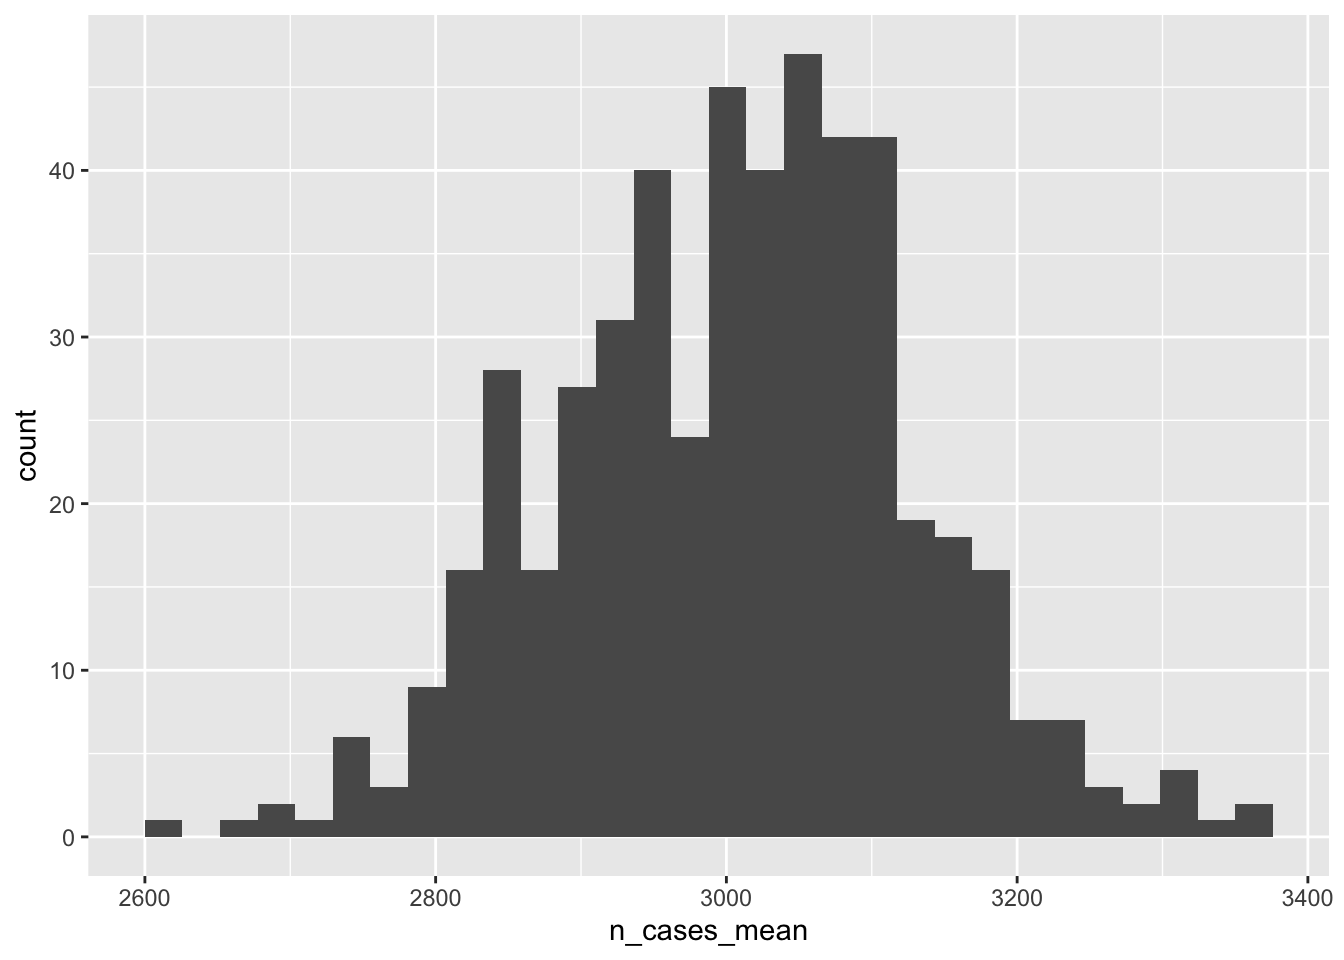
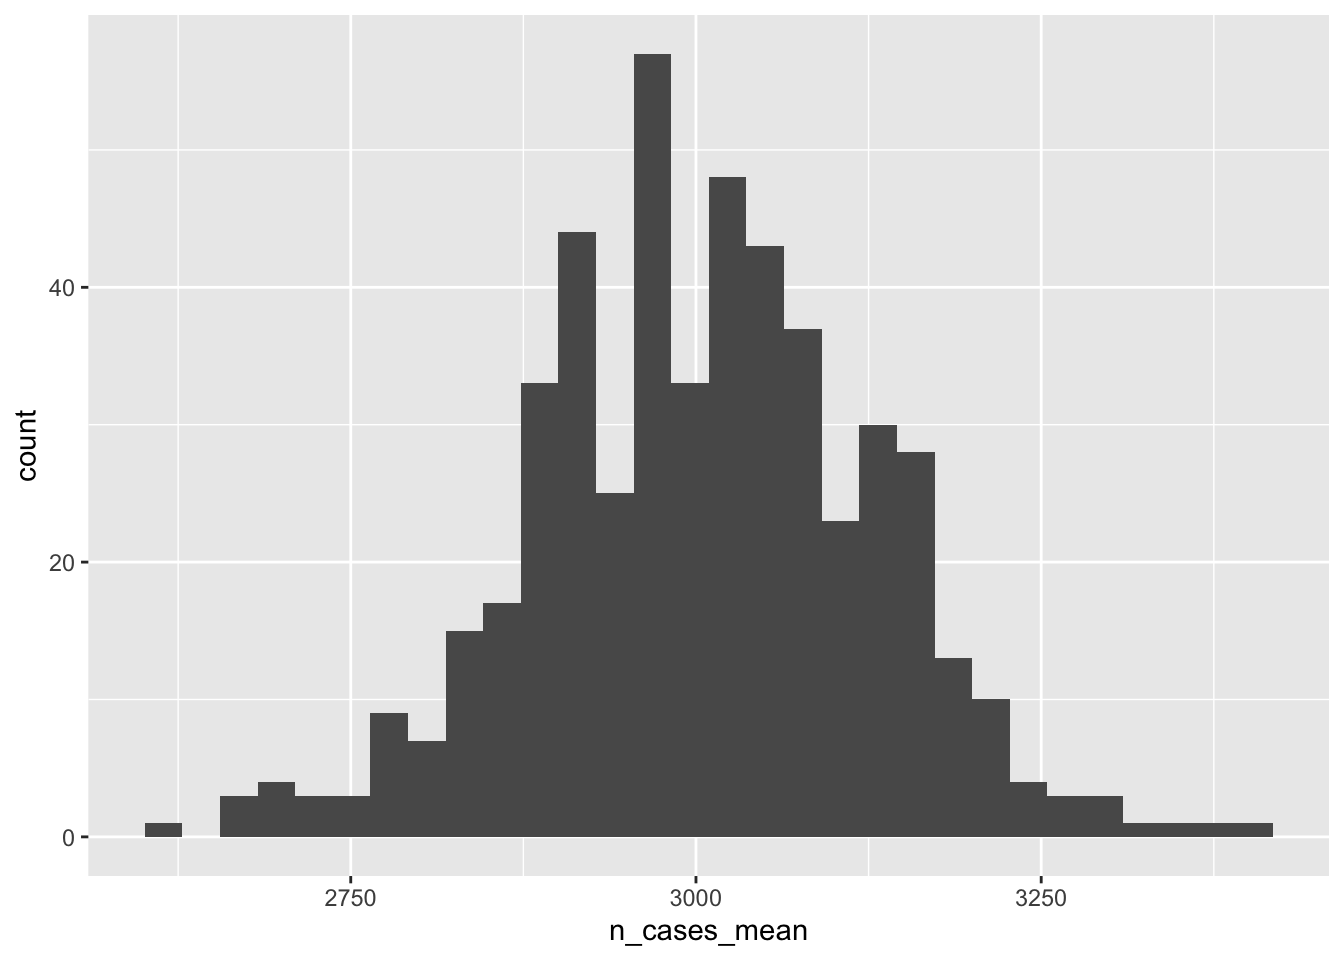
update boot module

diff --git a/docs/5-monte-carlo-boot-purrr.html b/docs/5-monte-carlo-boot-purrr.html
@@ -11,7 +11,7 @@
 
 <meta name="author" content="Michael D Garber" />
 
-<meta name="date" content="2022-08-11" />
+<meta name="date" content="2022-08-12" />
 
 <title>Monte Carlo simulations and boots with the purrr::map_dfr()</title>
 
@@ -370,7 +370,7 @@ div.tocify {
 
 <h1 class="title toc-ignore">Monte Carlo simulations and boots with the purrr::map_dfr()</h1>
 <h4 class="author">Michael D Garber</h4>
-<h4 class="date">2022-08-11</h4>
+<h4 class="date">2022-08-12</h4>
 
 </div>
 
@@ -481,8 +481,8 @@ monte_carlo_sim_frozen</code></pre>
 <p><img src="5-monte-carlo-boot-purrr_files/figure-html/unnamed-chunk-4-1.png" width="672" /></p>
 <div id="define-a-function-for-replications" class="section level3" number="4.1.1">
 <h3><span class="header-section-number">4.1.1</span> Define a function for replications</h3>
-<p>Now let’s randomly vary values of the variables over several replications. In this code, we will create a function that will create new variables that will change. Functions are described in the <a href="https://r4ds.had.co.nz/functions.html#functions">functions chapter</a> of R 4 Data Science. At the end of this module, I have another example of how to use a function in a dplyr pipe.</p>
-<p>Create a function for the creation of this dataset, run it 500 times, and find the mean of the means over those 500 iterations. The argument our function takes is <code>rep_id_val</code>. Its value is in the <code>mutate()</code> step to create a variable called <code>rep_id</code>.</p>
+<p>Now let’s randomly vary values of the variables over several replications. In this code, we will create a function that will create new variables whose values will randomly change. Functions are described in the <a href="https://r4ds.had.co.nz/functions.html#functions">functions chapter</a> of R 4 Data Science. At the end of this module, I have another example of how to use a function in a dplyr pipe.</p>
+<p>Create a function for the creation of this dataset, run it 500 times, and find the mean of the means over those 500 iterations. Our function’s one argument is <code>rep_id_val</code>. Its value is used in the <code>mutate()</code> step to create a variable called <code>rep_id</code>.</p>
 <pre class="r"><code>monte_carlo_sim_fun = function(rep_id_val){
   monte_carlo_sim_df = 1:100 %&gt;% 
     as_tibble() %&gt;% 
@@ -526,27 +526,27 @@ class(rep_id_val_list)</code></pre>
 </div>
 <div id="run-the-replications" class="section level3" number="4.1.2">
 <h3><span class="header-section-number">4.1.2</span> Run the replications</h3>
-<p>Simulate 500 versions of this state. In each replication, the values for the variables <code>pop</code>, <code>dem</code>, <code>prev</code>, and <code>n_cases</code> randomly vary according to their specified distribution. We use <a href="https://purrr.tidyverse.org/reference/map.html"><code>map_dfr()</code></a> from the <a href="https://purrr.tidyverse.org/">purrr</a> package to run the simulation and then stack the results on top of one another, akin to <code>dplyr::bind_rows()</code>.</p>
-<p>Take note the unusual structure of this code. The function we created above, <code>monte_carlo_sim_fun</code> is inside <code>map_dfr()</code>, and the list of replication ids, <code>rep_id_val_list,</code> is the object that begins the pipe sequence.</p>
+<p>Simulate 500 versions of this state. In each replication, the values for the variables <code>pop</code>, <code>dem</code>, <code>prev</code>, and <code>n_cases</code> randomly vary according to their specified distribution. We use <a href="https://purrr.tidyverse.org/reference/map.html"><code>map_dfr()</code></a> from the <a href="https://purrr.tidyverse.org/">purrr</a> package to run the simulation and then stack the results from each iteration on top of one another, akin to <code>dplyr::bind_rows()</code>.</p>
+<p>Take note of the unusual structure of this code. The function we created above, <code>monte_carlo_sim_fun</code> is inside of <code>map_dfr()</code>, and the list of replication ids, <code>rep_id_val_list,</code> is the object that begins the pipe sequence.</p>
 <pre class="r"><code>library(purrr) #make sure it&#39;s attached
 set.seed(NULL) #allow it to vary differently each time.
 monte_carlo_sim_lots  = rep_id_val_list %&gt;% 
   map_dfr(monte_carlo_sim_fun) </code></pre>
-<p>Take a look at output.</p>
+<p>Take a look at the output.</p>
 <pre class="r"><code>monte_carlo_sim_lots</code></pre>
 <pre><code>## # A tibble: 50,000 × 7
-##    county_id state   pop   dem   prev n_cases rep_id
-##        &lt;int&gt; &lt;dbl&gt; &lt;int&gt; &lt;int&gt;  &lt;dbl&gt;   &lt;int&gt;  &lt;int&gt;
-##  1         1     1 10006     0 0.178     1779      1
-##  2         2     1 10011     1 0.129     1291      1
-##  3         3     1  9923     1 0.460     4565      1
-##  4         4     1 10068     0 0.226     2271      1
-##  5         5     1  9827     0 0.0526     516      1
-##  6         6     1  9833     1 0.209     2051      1
-##  7         7     1  9927     0 0.171     1701      1
-##  8         8     1 10028     0 0.180     1801      1
-##  9         9     1 10139     1 0.292     2963      1
-## 10        10     1  9961     1 0.341     3398      1
+##    county_id state   pop   dem  prev n_cases rep_id
+##        &lt;int&gt; &lt;dbl&gt; &lt;int&gt; &lt;int&gt; &lt;dbl&gt;   &lt;int&gt;  &lt;int&gt;
+##  1         1     1  9885     0 0.142    1403      1
+##  2         2     1  9907     0 0.312    3093      1
+##  3         3     1  9995     1 0.325    3250      1
+##  4         4     1  9939     1 0.250    2486      1
+##  5         5     1 10051     1 0.476    4781      1
+##  6         6     1  9943     0 0.145    1445      1
+##  7         7     1 10062     1 0.264    2655      1
+##  8         8     1 10024     0 0.165    1650      1
+##  9         9     1 10195     1 0.110    1119      1
+## 10        10     1  9974     0 0.369    3682      1
 ## # … with 49,990 more rows
 ## # ℹ Use `print(n = ...)` to see more rows</code></pre>
 <p>How many rows?</p>
@@ -558,7 +558,7 @@ monte_carlo_sim_lots  = rep_id_val_list %&gt;%
 </div>
 <div id="summarize-results" class="section level3" number="4.1.3">
 <h3><span class="header-section-number">4.1.3</span> Summarize results</h3>
-<p>What’s the distribution of <code>n_cases_mean</code> over Monte Carlo replications? This is not the variability of the number of cases within the state between counties but rather the variability of the mean number of cases over counties between replications.</p>
+<p>What’s the distribution of <code>n_cases_mean</code> over Monte Carlo replications? This is not the variability of the number of cases within the state between counties but rather the variability of the mean number of county-level cases between replications.</p>
 <pre class="r"><code>monte_carlo_sim_lots %&gt;% 
   group_by(rep_id,state) %&gt;% 
   summarise(
@@ -590,37 +590,37 @@ monte_carlo_sim_lots  = rep_id_val_list %&gt;%
 <pre><code>## # A tibble: 1 × 5
 ##   state n_cases_mean_ll n_cases_mean_med n_cases_mean_ul simulation_type
 ##   &lt;dbl&gt;           &lt;dbl&gt;            &lt;dbl&gt;           &lt;dbl&gt; &lt;chr&gt;          
-## 1     1           2777.            3013.           3245. monte-carlo</code></pre>
+## 1     1           2762.            3005.           3238. monte-carlo</code></pre>
 </div>
 </div>
 <div id="bootstrap" class="section level2" number="4.2">
 <h2><span class="header-section-number">4.2</span> Bootstrap</h2>
-<p>Now let’s bootstrap <code>monte_carlo_sim_frozen</code>, again supposing that even though it was generated randomly, it is now viewed as a single frozen sample - the one we drew and have access to. We can estimate the sampling distribution by re-sampling it <strong>with replacement</strong> with sampling probability of 1, meaning all rows will be re-sampled. This means that, in a given sample, some counties will repeat, and some will not appear at all.</p>
+<p>Now let’s bootstrap <code>monte_carlo_sim_frozen</code>, again supposing that even though it was generated randomly, it is now viewed as a single frozen sample - the one we drew and have access to. We can estimate the sampling distribution by re-sampling it <strong>with replacement</strong> with sampling probability of 1, meaning all rows will be re-sampled. Because we are sampling <em>with replacement</em>, in a given sample, some counties will repeat, and some will not appear at all.</p>
 <p>Here’s one sample:</p>
 <pre class="r"><code>monte_carlo_sim_one_boot = monte_carlo_sim_frozen %&gt;% 
   slice_sample(prop=1,replace=TRUE)</code></pre>
 <p>Take a look:</p>
 <pre class="r"><code>monte_carlo_sim_one_boot</code></pre>
 <pre><code>## # A tibble: 100 × 6
-##    county_id state   pop   dem   prev n_cases
-##        &lt;int&gt; &lt;dbl&gt; &lt;int&gt; &lt;int&gt;  &lt;dbl&gt;   &lt;int&gt;
-##  1        30     1  9922     1 0.303     3010
-##  2        61     1  9910     1 0.520     5148
-##  3        85     1 10002     0 0.0276     276
-##  4        66     1  9870     1 0.570     5628
-##  5        86     1 10100     1 0.338     3408
-##  6        77     1 10070     0 0.395     3975
-##  7         2     1  9780     1 0.455     4448
-##  8        49     1 10033     1 0.347     3486
-##  9        69     1  9963     0 0.119     1184
-## 10        60     1 10036     0 0.237     2382
+##    county_id state   pop   dem  prev n_cases
+##        &lt;int&gt; &lt;dbl&gt; &lt;int&gt; &lt;int&gt; &lt;dbl&gt;   &lt;int&gt;
+##  1         6     1 10062     1 0.435    4378
+##  2        34     1  9924     1 0.440    4363
+##  3        95     1  9891     0 0.215    2130
+##  4        11     1  9885     1 0.329    3251
+##  5        89     1 10073     1 0.431    4337
+##  6        18     1  9779     0 0.287    2802
+##  7       100     1 10128     1 0.222    2252
+##  8       100     1 10128     1 0.222    2252
+##  9        19     1 10000     0 0.527    5271
+## 10        59     1  9931     1 0.330    3275
 ## # … with 90 more rows
 ## # ℹ Use `print(n = ...)` to see more rows</code></pre>
 <p>As expected, we have the same number of rows, but fewer unique values for <code>county_id.</code> Some are repeating.</p>
 <pre class="r"><code>nrow(monte_carlo_sim_one_boot)</code></pre>
 <pre><code>## [1] 100</code></pre>
 <pre class="r"><code>n_distinct(monte_carlo_sim_one_boot$county_id)</code></pre>
-<pre><code>## [1] 69</code></pre>
+<pre><code>## [1] 63</code></pre>
 <p>Repeat this bootstrap procedure 500 times by first writing a function and then iterating replications through that function using <code>purrr::map_dfr()</code></p>
 <div id="define-a-function-for-replications-1" class="section level3" number="4.2.1">
 <h3><span class="header-section-number">4.2.1</span> Define a function for replications</h3>
@@ -632,7 +632,7 @@ monte_carlo_sim_lots  = rep_id_val_list %&gt;%
 </div>
 <div id="run-the-replications-1" class="section level3" number="4.2.2">
 <h3><span class="header-section-number">4.2.2</span> Run the replications</h3>
-<p>Simulate 500 versions of this re-sampling. We again use <code>map_dfr()</code> from the purrr package to run the function and then stack the results on top of one another. Note the unusual structure of this code. The function we created above, <code>monte_carlo_sim_fun(),</code> is inside <code>map_dfr()</code>, and the list of replication ids, <code>rep_id_val_list,</code> begins the pipe sequence.</p>
+<p>Simulate 500 versions of this re-sampling. We again use <code>map_dfr()</code> from the purrr package to run the function and then stack the results on top of one another. Again take note of the unusual structure of this code. The function, <code>boot_fun</code>, is inside of <code>map_dfr()</code>, and the vector of replication ids, <code>rep_id_val_list,</code> begins the pipe sequence.</p>
 <pre class="r"><code>boot_lots  = rep_id_val_list %&gt;% 
   map_dfr(boot_fun) </code></pre>
 </div>
@@ -640,18 +640,18 @@ monte_carlo_sim_lots  = rep_id_val_list %&gt;%
 <h3><span class="header-section-number">4.2.3</span> Summarize results</h3>
 <pre class="r"><code>boot_lots</code></pre>
 <pre><code>## # A tibble: 50,000 × 7
-##    county_id state   pop   dem   prev n_cases rep_id
-##        &lt;int&gt; &lt;dbl&gt; &lt;int&gt; &lt;int&gt;  &lt;dbl&gt;   &lt;int&gt;  &lt;int&gt;
-##  1        19     1 10000     0 0.527     5271      1
-##  2        97     1 10028     1 0.456     4568      1
-##  3        48     1  9804     0 0.157     1539      1
-##  4        40     1  9936     0 0.172     1707      1
-##  5        58     1 10015     0 0.0619     619      1
-##  6        45     1 10006     1 0.396     3961      1
-##  7        66     1  9870     1 0.570     5628      1
-##  8        50     1 10047     1 0.354     3557      1
-##  9        40     1  9936     0 0.172     1707      1
-## 10        63     1  9934     0 0.329     3271      1
+##    county_id state   pop   dem  prev n_cases rep_id
+##        &lt;int&gt; &lt;dbl&gt; &lt;int&gt; &lt;int&gt; &lt;dbl&gt;   &lt;int&gt;  &lt;int&gt;
+##  1        18     1  9779     0 0.287    2802      1
+##  2        96     1  9936     0 0.513    5096      1
+##  3        16     1  9998     0 0.337    3370      1
+##  4        19     1 10000     0 0.527    5271      1
+##  5        23     1 10068     0 0.350    3523      1
+##  6        65     1  9910     0 0.312    3089      1
+##  7        61     1  9910     1 0.520    5148      1
+##  8        81     1 10048     0 0.206    2072      1
+##  9         6     1 10062     1 0.435    4378      1
+## 10        42     1 10054     1 0.224    2251      1
 ## # … with 49,990 more rows
 ## # ℹ Use `print(n = ...)` to see more rows</code></pre>
 <p>What’s the distribution of <code>n_cases_mean</code> over bootstrap replications?</p>
@@ -666,7 +666,7 @@ monte_carlo_sim_lots  = rep_id_val_list %&gt;%
 ## `.groups` argument.
 ## `stat_bin()` using `bins = 30`. Pick better value with `binwidth`.</code></pre>
 <p><img src="5-monte-carlo-boot-purrr_files/figure-html/unnamed-chunk-20-1.png" width="672" /></p>
-<p>We can use the empirical distribution of resampled results to estimate a confidence interval for the sampling distribution. This is a confidence interval for the estimated mean number of cases in the state:</p>
+<p>We can use the empirical distribution of re-sampled results to estimate a confidence interval for the sampling distribution. This is a confidence interval for the estimated mean number of cases in the state:</p>
 <pre class="r"><code>boot_lots_summary = boot_lots %&gt;% 
   group_by(rep_id,state) %&gt;% #group by both rep id and state
   summarise(
@@ -686,15 +686,15 @@ monte_carlo_sim_lots  = rep_id_val_list %&gt;%
 <pre><code>## # A tibble: 1 × 5
 ##   state n_cases_mean_ll n_cases_mean_med n_cases_mean_ul simulation_type
 ##   &lt;dbl&gt;           &lt;dbl&gt;            &lt;dbl&gt;           &lt;dbl&gt; &lt;chr&gt;          
-## 1     1           2826.            3054.           3295. bootstrap</code></pre>
+## 1     1           2825.            3064.           3307. bootstrap</code></pre>
 <p>How does this estimate of the sampling distribution of <code>n_cases_mean</code> align with the truth? We happen to know the truth here. It’s the distribution of <code>n_cases_mean</code> between the Monte Carlo simulations, defined above.</p>
 <pre class="r"><code>monte_carlo_sim_lots_summary %&gt;% 
   bind_rows(boot_lots_summary)</code></pre>
 <pre><code>## # A tibble: 2 × 5
 ##   state n_cases_mean_ll n_cases_mean_med n_cases_mean_ul simulation_type
 ##   &lt;dbl&gt;           &lt;dbl&gt;            &lt;dbl&gt;           &lt;dbl&gt; &lt;chr&gt;          
-## 1     1           2777.            3013.           3245. monte-carlo    
-## 2     1           2826.            3054.           3295. bootstrap</code></pre>
+## 1     1           2762.            3005.           3238. monte-carlo    
+## 2     1           2825.            3064.           3307. bootstrap</code></pre>
 </div>
 </div>
 </div>
@@ -719,7 +719,7 @@ monte_carlo_sim_lots  = rep_id_val_list %&gt;%
 </div>
 <div id="more-on-functions" class="section level1" number="6">
 <h1><span class="header-section-number">6</span> More on functions</h1>
-<p>In addition to their use for simulations as above, functions can also be used simply to reduce repetition in code. Sometimes you end up writing the same or similar code many times and apply that code to several datasets. For example, above we wrote an almost identical equence of dplyr functions to define both <code>monte_carlo_sim_frozen</code> and the function, <code>monte_carlo_sim_fun()</code>.</p>
+<p>In addition to their use for simulations as above, functions can also be used simply to reduce repetition in code. Sometimes you end up writing the same or similar code many times and apply that code to several datasets. For example, above, we wrote an almost identical sequence of dplyr functions to define both <code>monte_carlo_sim_frozen</code> and the function, <code>monte_carlo_sim_fun()</code>.</p>
 <p>Here is an example sequence of dplyr steps combined into one function.</p>
 <pre class="r"><code>do_some_dplyr_stuff = function(df){ 
   df %&gt;%
@@ -740,7 +740,7 @@ function_result_one_county</code></pre>
 <pre><code>## # A tibble: 1 × 5
 ##   state county_id example_var_x example_var_y example_var_z
 ##   &lt;dbl&gt;     &lt;int&gt;         &lt;dbl&gt;         &lt;dbl&gt;         &lt;int&gt;
-## 1     1         2        -0.908             4             1</code></pre>
+## 1     1         2        -0.229             4             0</code></pre>
 </div>
 <div id="references" class="section level1 unnumbered">
 <h1><strong>References</strong></h1>
